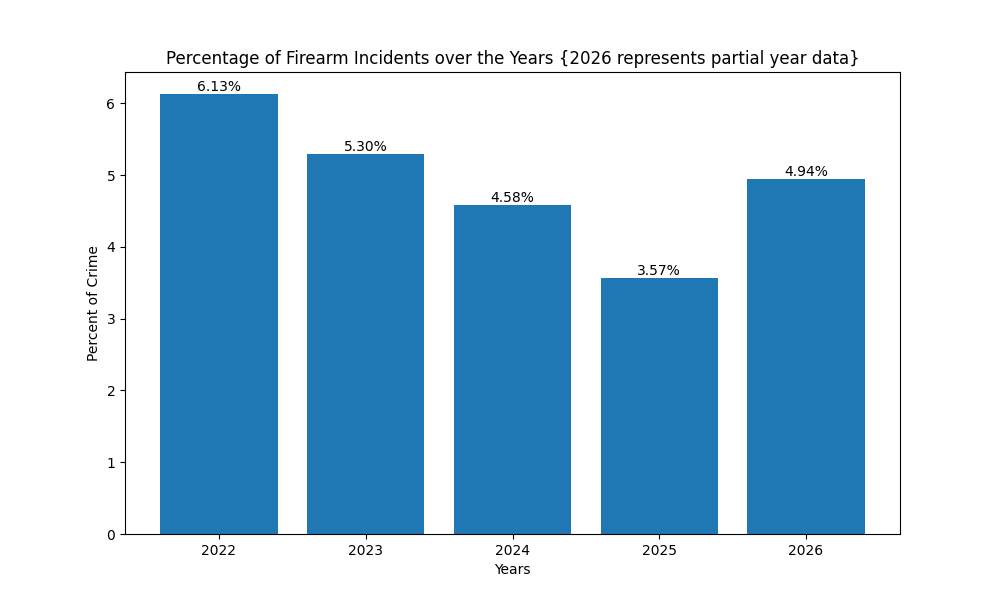
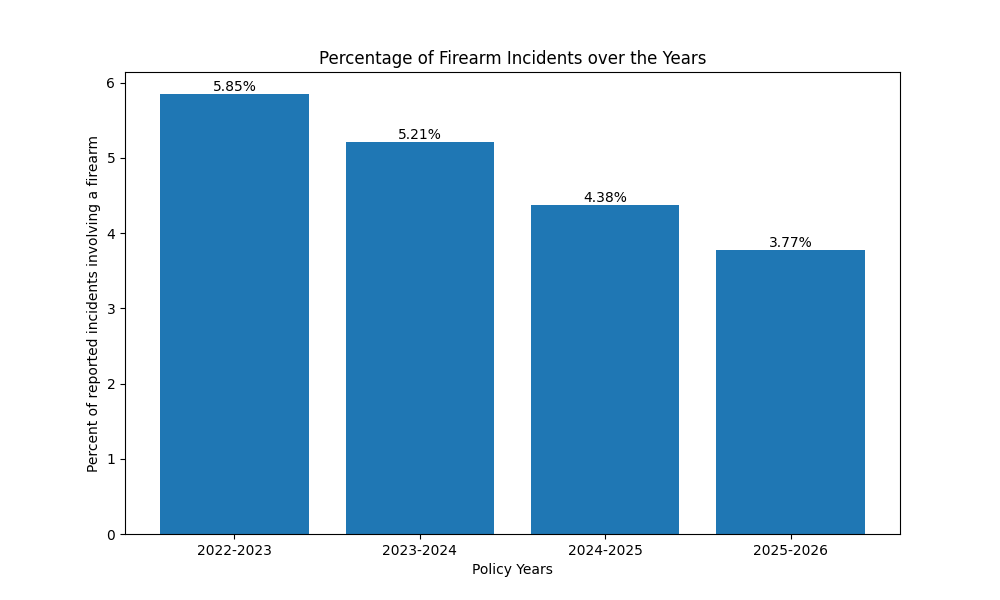
Update to con_carry.py To reflect corrected reporting periods

diff --git a/06_atlanta_cc/python/con_carry.py b/06_atlanta_cc/python/con_carry.py
@@ -15,33 +15,47 @@
 import pandas as pd
 import matplotlib.pyplot as plt
 import sqlite3 as sq
+from matplotlib.ticker import FuncFormatter
 
 # - import and query data
 conn = sq.connect("../data/acc.db")
 
 query = """
-        WITH crimes AS(
+        WITH year_labels AS ( -- Break down 48m into years for equal comparisons
+            SELECT
+                *
+            ,   CASE WHEN strftime('%Y/%m', ReportDate) < '2023/04' THEN '2022-2023'
+                     WHEN strftime('%Y/%m', ReportDate) < '2024/04' THEN '2023-2024'
+                     WHEN strftime('%Y/%m', ReportDate) < '2025/04' THEN '2024-2025'
+                     WHEN strftime('%Y/%m', ReportDate) < '2026/04' THEN '2025-2026'
+                     ELSE 'Out_of_range'
+                END AS policy_year
+            FROM acc
+        )
+        ,
+        crimes AS(
                 SELECT
                     count(*) incidents
-                ,	strftime('%Y', ReportDate) inc_year
+                ,	policy_year
                 ,	COUNT(CASE WHEN FireArmInvolved LIKE 'y%' THEN 1 END)  firearms 
                 FROM
-                    acc
+                    year_labels
                 GROUP BY
-                    inc_year
+                    policy_year
                 )
         ,
                 homicide AS (	-- Determine homicide rate over the years
                     SELECT
                         COUNT(*) homicides
-                    , 	strftime('%Y', ReportDate) inc_year
+                    , 	policy_year
 
                     FROM
-                        acc
+                        year_labels
                     WHERE
+                    FireArmInvolved LIKE 'y%' AND
                     NibrsUcrCode = '09A' -- 09a is the code for Murder in the NIBRS_Offense
                     GROUP BY
-                        inc_year
+                        policy_year
                     )	
         SELECT
             c.firearms
@@ -49,12 +63,12 @@ query = """
         ,	c.incidents
         ,	ROUND((c.firearms *1.0 /c.incidents *1.0),4) *100.0 pcnt_firearms
         ,	ROUND((h.homicides *1.0/c.incidents *1.0),4) *100.00 pcnt_crime
-        ,	c.inc_year
+        ,	c.policy_year
         FROM
             crimes c
         JOIN
             homicide h
-ON	c.inc_year = h.inc_year
+ON	c.policy_year = h.policy_year
 """
 
 table = pd.read_sql_query(query, conn)
@@ -64,51 +78,64 @@ conn.close()
 # - Prepare data for vis
 # - Q1 vis firearm percentages
 fig, ax = plt.subplots(figsize=(10,6))
-
-bars = ax.bar(table["inc_year"],table["pcnt_firearms"])
+ 
+bars = ax.bar(table["policy_year"],table["pcnt_firearms"])
 for bar in bars:
     height = bar.get_height()
     x_pos = bar.get_x() + bar.get_width()/2
     ax.annotate(f"{height:.2f}%", xy=(x_pos, height), ha='center', va='bottom')
-ax.set_xlabel("Years")
-ax.set_ylabel("Percent of Crime")
-ax.set_title("Percentage of Firearm Incidents over the Years {2026 represents partial year data}")
-
+ax.set_xlabel("Policy Years")
+ax.set_ylabel("Percent of reported incidents involving a firearm")
+ax.set_title("Percentage of Firearm Incidents over the Years")
+ 
 plt.savefig("../outputs/firearm.png")
 plt.show()
-
-
+ 
+ 
 # - Q2 vis homicides
 fig, ax = plt.subplots(figsize=(10,6))
-
-bars = ax.bar(table["inc_year"],table["homicides"])
+ 
+bars = ax.bar(table["policy_year"],table["homicides"])
 for bar in bars:
     height = bar.get_height()
     x_pos = bar.get_x() + bar.get_width()/2
     ax.annotate(f"{height}", xy=(x_pos, height), ha='center', va='bottom')
-ax.set_xlabel("Years")
-ax.set_ylabel("Number of Homicides")
-ax.set_title("Number of Homicide Incidents over the Years {2026 represents partial year data}")
-
+ax.set_xlabel("Policy Years")
+ax.set_ylabel("Number of Firearm Homicides")
+ax.set_title("Number of Firearm Homicides over the Years")
+ 
 plt.savefig("../outputs/homicides.png")
 plt.show()
-
+ 
 # - Q3 vis incidents/homicides
-fig, ax = plt.subplots(figsize=(10,6))
-ax2= ax.twinx()
-
-
-bars = ax.bar(table["inc_year"],table["incidents"], label="Total Crimes")
+fig, (ax1, ax2) = plt.subplots(1, 2, figsize=(14, 6))
+ 
+# ---- Left panel: total reported incidents ----
+bars = ax1.bar(table["policy_year"], table["incidents"])
 for bar in bars:
     height = bar.get_height()
-    x_pos = bar.get_x() + bar.get_width()/2
-    ax.annotate(f"{height}", xy=(x_pos, height), ha='center', va='bottom')
-ax.set_xlabel("Years")
-ax.set_title("Crime incidents with homicide numbers over the Years {2026 represents partial year data}")
-ax.legend(loc="upper left")
-ax2.plot(table["inc_year"], table["homicides"], color='red', marker='o', label="Homicides")
-ax2.legend(loc="upper right")
-ax2.set_ylim(bottom=5, top=170)
-
-plt.savefig("../outputs/trend.png")
+    x_pos = bar.get_x() + bar.get_width() / 2
+    ax1.annotate(f"{height:,}", xy=(x_pos, height), ha="center", va="bottom")
+ 
+ax1.set_title("Total reported incidents")
+ax1.set_xlabel("Policy Years")
+ax1.set_ylabel("Reported incidents")
+ax1.set_ylim(0, table["incidents"].max() * 1.15)   # headroom above the tallest bar
+ax1.yaxis.set_major_formatter(FuncFormatter(lambda x, _: f"{x:,.0f}"))
+ 
+# ---- Right panel: firearm homicides ----
+ax2.plot(table["policy_year"], table["homicides"], color="red", marker="o")
+for x, y in zip(table["policy_year"], table["homicides"]):
+    ax2.annotate(f"{y:,}", xy=(x, y), xytext=(0, 8),
+                 textcoords="offset points", ha="center")
+ 
+ax2.set_title("Firearm homicides")
+ax2.set_xlabel("Policy Years")
+ax2.set_ylabel("Firearm homicides")
+ax2.set_ylim(0, 170)
+ 
+# ---- Whole figure ----
+fig.suptitle("Total reported incidents and firearm homicides by policy year")
+plt.tight_layout()
+plt.savefig("../outputs/trend.png", bbox_inches="tight")
 plt.show()
